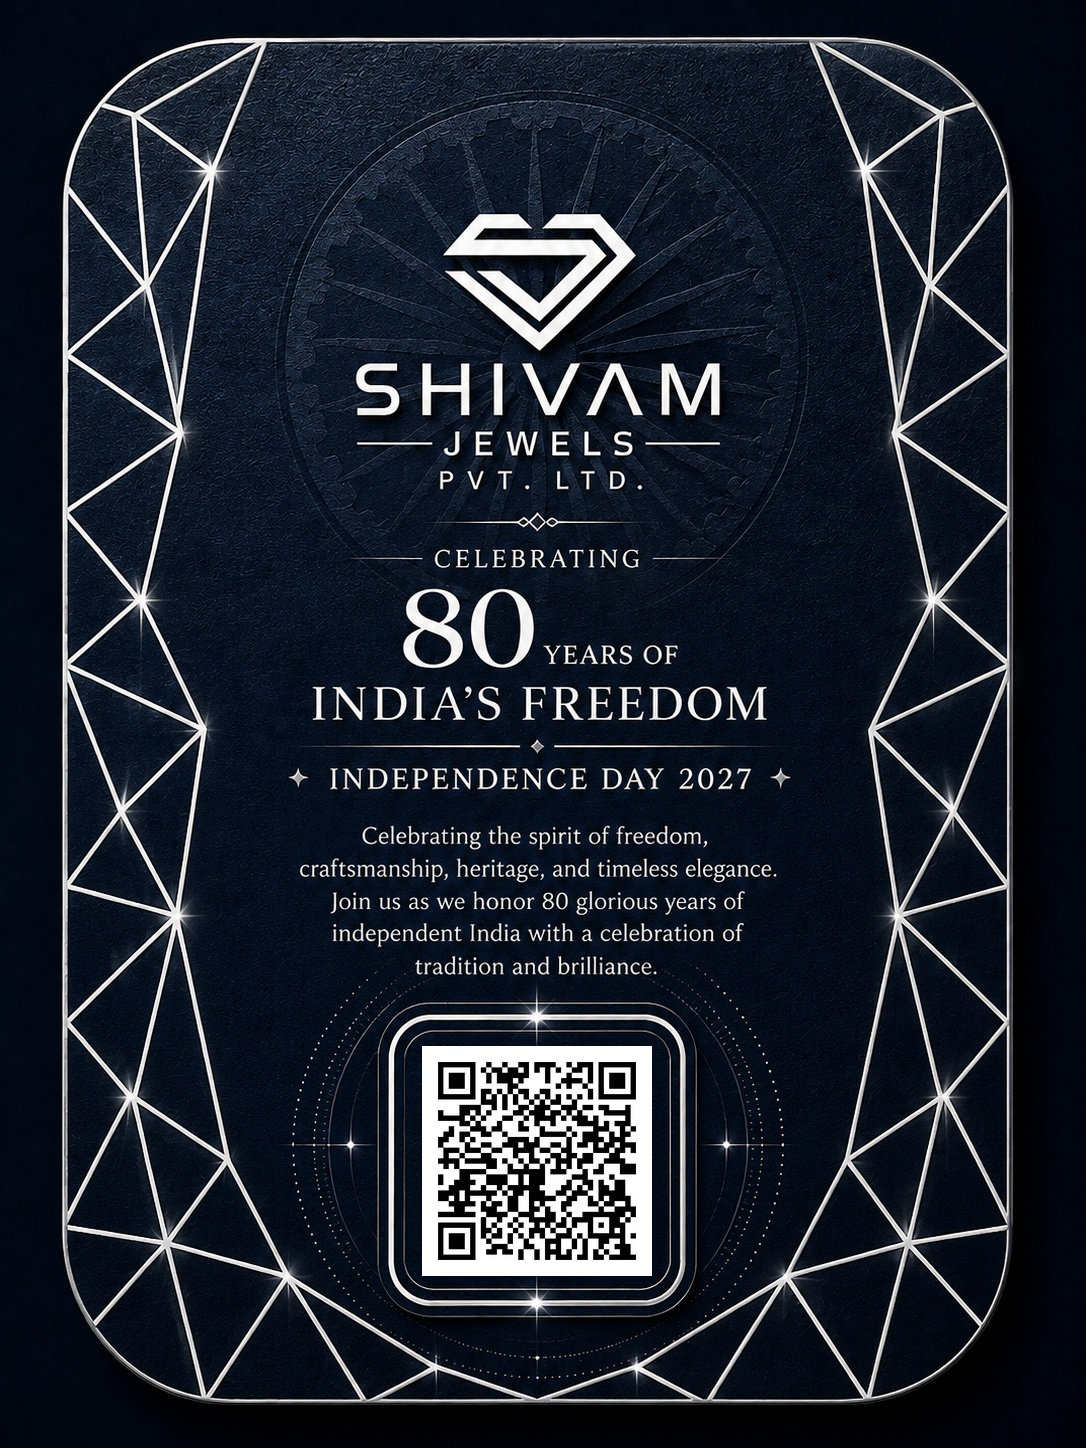
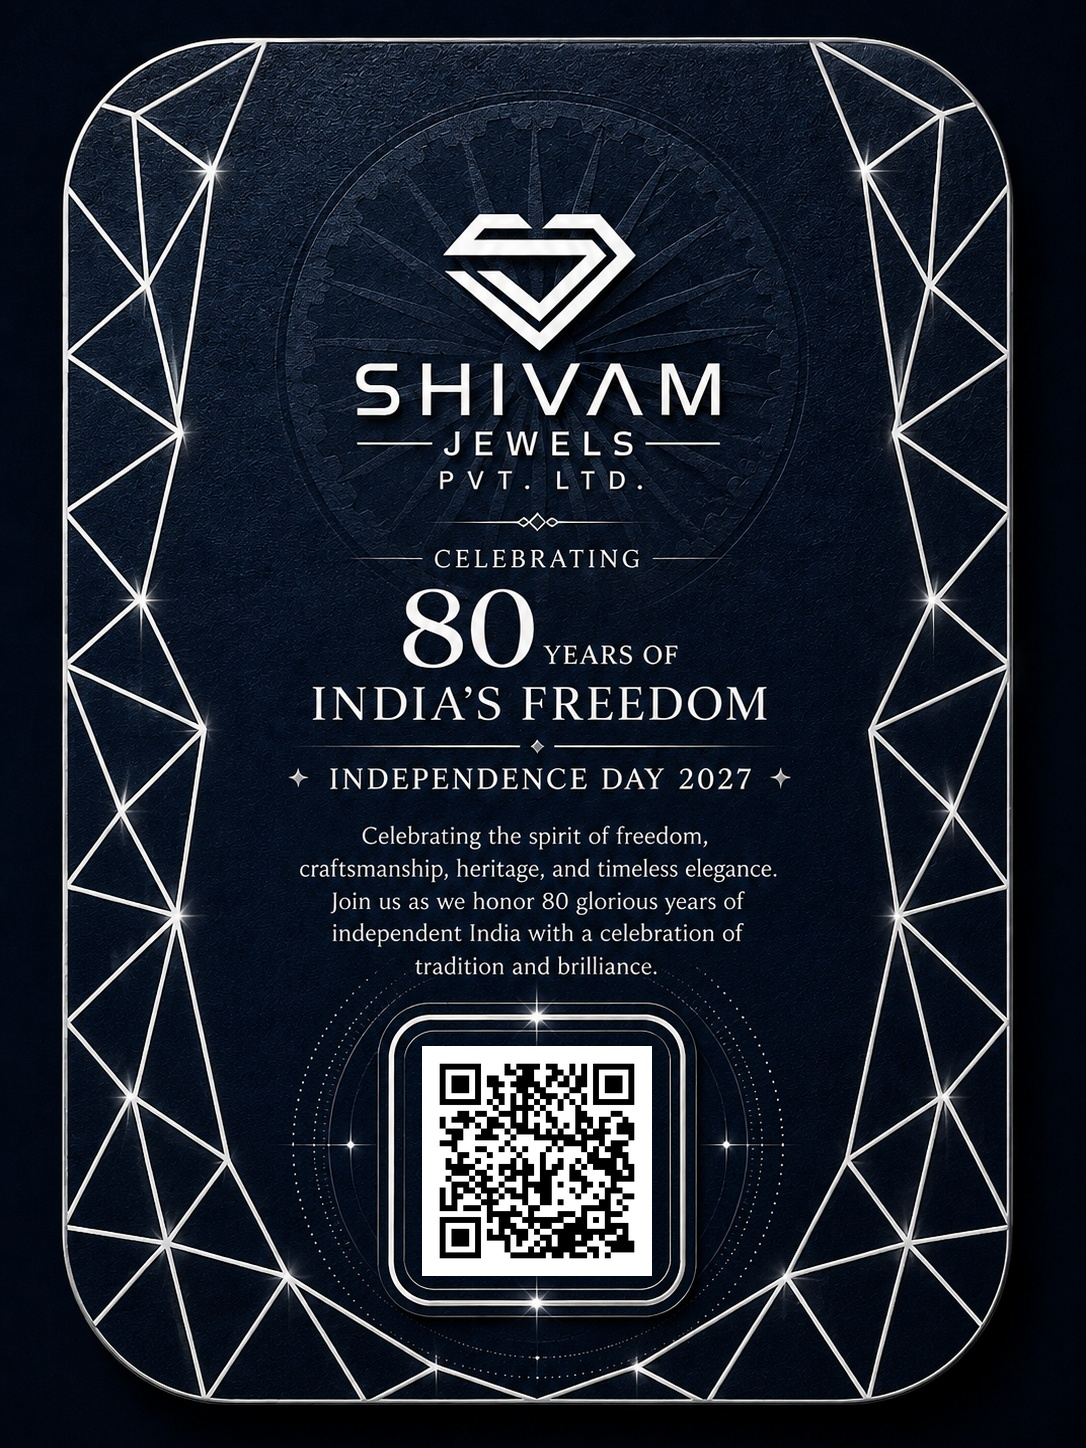
chore: update QR code to point to custom domain www.3d-shivamai.studio

Changed region(s): [[0.395, 0.7148, 0.6077, 0.8702]]

diff --git a/generate_card.py b/generate_card.py
@@ -65,8 +65,8 @@ def stitch_qr_onto_card(base_image_path, qr_img, output_path):
     print(f"Success! Compiled card with QR code saved to: {output_path}")
 
 if __name__ == "__main__":
-    # URL pointing to the user's live GitHub Pages WebAR portal
-    target_url = "https://parthshankar2005.github.io/3D/"
+    # URL pointing to the user's live custom domain WebAR portal
+    target_url = "https://www.3d-shivamai.studio/"
     
     print(f"Generating QR Code for: {target_url}")
     qr_code_image = generate_qr_code(target_url)
